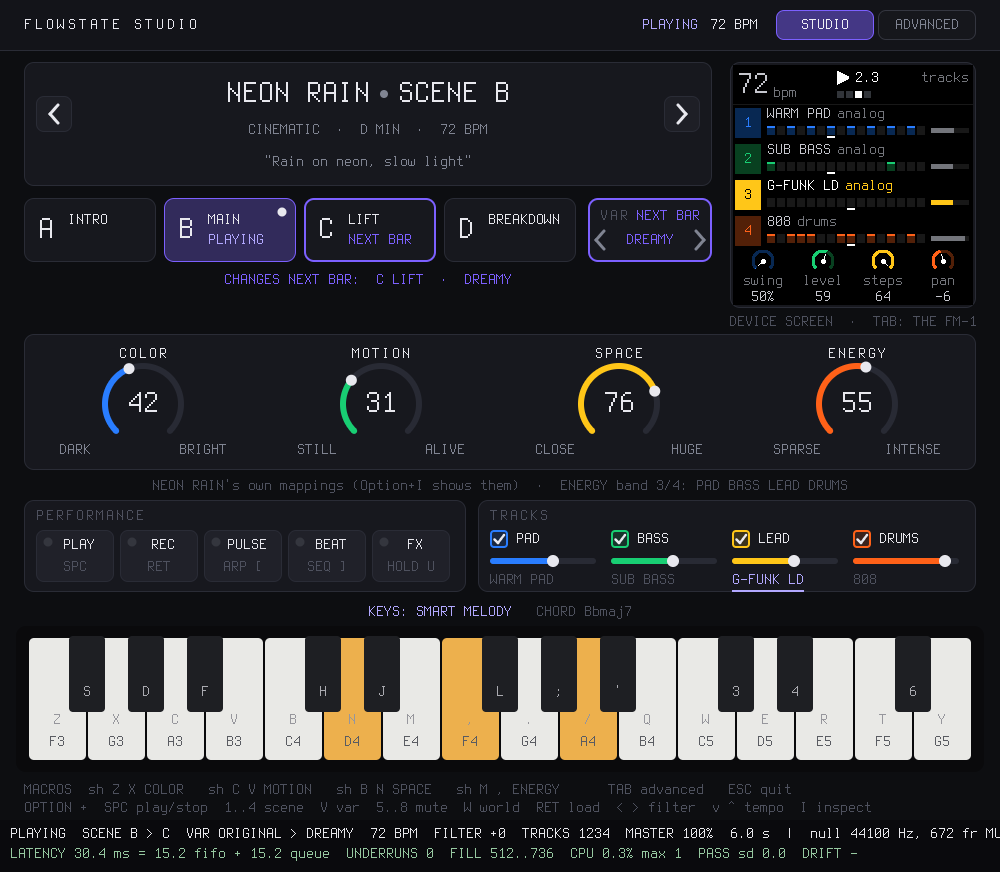
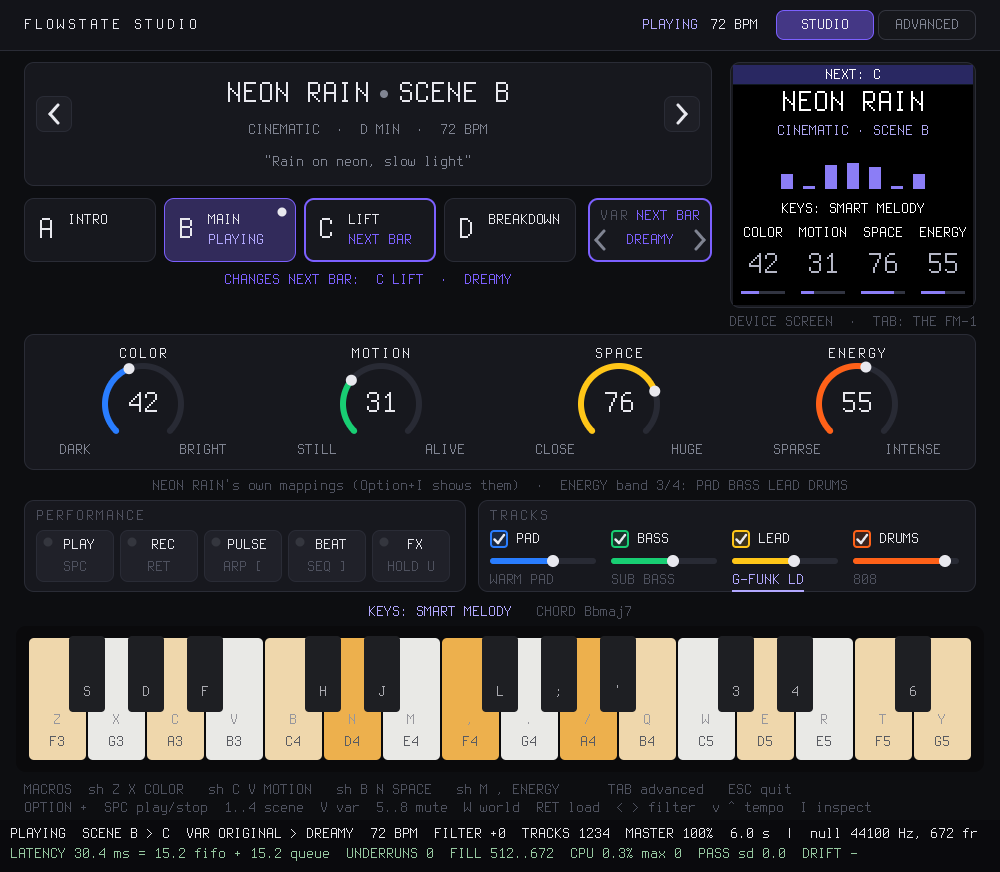
host: the Studio runs the device's PLAY MODE
The simulator boots the device into PLAY MODE (--sloop still boots
SLOOP); screenshots of every PLAY screen in docs/images/play-*.png.

diff --git a/host/sim/studio.c b/host/sim/studio.c
@@ -2,8 +2,8 @@
 /* The Studio's model of what plays (sim.h studio_t), on the firmware thread: what the FLOWSTATE STUDIO view
  * draws and what its controls do. Its entries:
  *
- *   Worlds         the factory Musical Worlds (world.c, sorted by category as the firmware keeps them); the
- *                  default is NEON RAIN, found by its id (UI spec: the first boot)
+ *   Worlds         the factory Musical Worlds (world.c, sorted by category as the firmware keeps them). At the start
+ *                  the World the firmware booted (PLAY MODE: the session in the flash image; a first boot NEON RAIN)
  *   a World file   --world PATH (.world.json or .wblob): the main thread compiles it, and again whenever the file
  *                  changes (every 500 ms it looks): the World reloads at once, playing or not (design 2.8)
  *   SLOOP projects the projects in examples/projects (or --worlds DIR), as in Phase 4: loading one stores four
@@ -27,7 +27,6 @@
 static const char *const SCENE_NAME[4] = {"INTRO", "MAIN", "LIFT", "BREAKDOWN"};   /* (a project's sections) */
 #define LIFT_DRUMS 16                            /* C LIFT: drum level + */
 #define LIFT_ECHO 24                             /* C LIFT: each synth track's delay send + */
-#define NEON_RAIN "0x4eee4454"                   /* the first-boot World (its id: the index is by category) */
 
 static struct {
     int n;
@@ -245,9 +244,7 @@ void studio_init(const sim_opts_t *o)
             fprintf(stderr, "flowstate-sim: --world %s: no such World or project\n", o->world);
     } else if (o->project) {
         stem(o->project, S.title, sizeof S.title);
-    } else if (!o->sloop) {
-        host_world_load(host_world_factory_find(NEON_RAIN));
-    }
+    }                                            /* (else what the firmware booted: its session, a first boot NEON RAIN) */
     {
         host_world_t w;
         host_world(&w);
@@ -296,12 +293,30 @@ void studio_blob(uint8_t *b, uint32_t n, int reload)
     }
 }
 
+/* the device's own World changes (PLAY MODE's CHOOSE WORLD, the menu's PLAY MODE and LEAVE WORLD): the entry follows */
+static void follow_device(void)
+{
+    static int n;
+    host_world_t w;
+    host_world_entry_t e;
+    if (++n % HOST_FRAME_BLOCKS)
+        return;
+    host_world(&w);
+    if (w.active && (S.world < 0 || S.w[S.world].kind == SK_PROJECT ||
+                     (S.w[S.world].kind == SK_WORLD && (host_world_factory(S.fidx[S.world], &e) || e.id != w.id))))
+        S.world = entry_of_world(w.id);
+    else if (!w.active && S.world >= 0 && S.w[S.world].kind != SK_PROJECT)
+        S.world = -1;
+}
+
 /* before each block: a World switch finished (world.c did it on the bar), a project waiting for its bar */
 void studio_block(void)
 {
     host_state_t st;
-    if (S.pending < 0)
+    if (S.pending < 0) {
+        follow_device();
         return;
+    }
     if (S.phase == 2) {                          /* a World: world.c stops, loads and starts on the bar */
         host_world_t w;
         host_world(&w);

diff --git a/host/sim/engine.c b/host/sim/engine.c
@@ -517,6 +517,7 @@ static int SDLCALL fw_thread(void *u)
     (void)u;
     sim_realtime_thread(1000.0 * SIM_HALF / HOST_FS, 1.5);   /* wakes within ~20 us of its sleep (audio.c) */
     host_set_yield(on_yield, NULL);
+    host_boot_device(!E.o.sloop);                /* as the device boots: the session decides (PLAY MODE first) */
     if (host_boot(E.o.flash)) {
         AT_STORE(&E.failures, E.failures + 1);
         AT_STORE(&E.done, 1);
